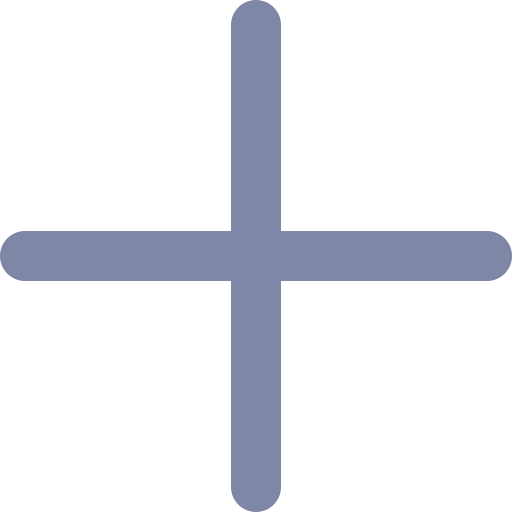
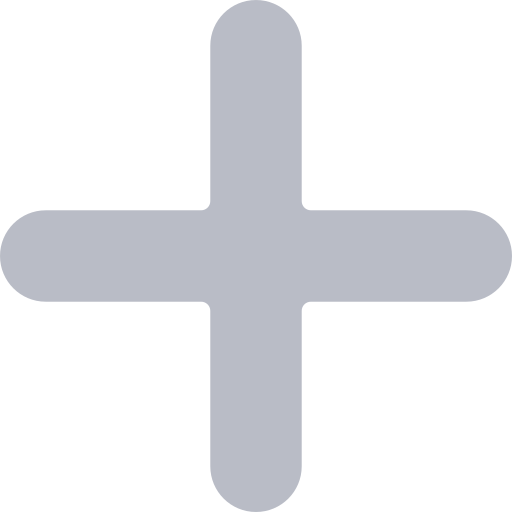
improve container layout

diff --git a/assets/styles/sass/home.scss b/assets/styles/sass/home.scss
@@ -3,7 +3,12 @@ $background-color: #c4def7;
 $primary-color: #fff;
 $checkbox-border-color: #3cc367;
 $checkbox-background-color: #cef0d9;
-$task-input-color: #49557a;
+$task-input-color: #9aa8bc;
+
+@mixin grid-full-col-placement($grid-row...) {
+    grid-column: $grid-row;
+    grid-row: 1/3;
+}
 
 @font-face {
     font-family: "vazir";
@@ -35,19 +40,21 @@ body {
     margin: 0 auto;
     display: grid;
     grid-template-columns: calc(25% - 16px) calc(50% - 16px) calc(25% - 16px);
+    grid-template-rows: 15% 1fr;
     justify-content: center;
     gap: 16px;
 
     > * {
         direction: rtl;
+        border-radius: 24px;
         background-color: $primary-color;
     }
 }
 
 .todo-list {
+    @include grid-full-col-placement(3/4);
     display: grid;
     grid-template-rows: auto 1fr auto;
-    border-radius: 24px;
 
     h2 {
         padding: 0.5rem;
@@ -65,7 +72,9 @@ body {
     }
 
     .task {
-        padding: 1rem 0.5rem;
+        height: max-content;
+        // padding: 1rem 0.5rem;
+        padding: 4px;
         display: grid;
         grid-template-columns: auto 1fr auto;
         align-items: center;
@@ -97,9 +106,11 @@ body {
             background-color: $checkbox-background-color;
         }
 
+        .task-title {
+            overflow: hidden;
+        }
+
         .buttons-wrapper {
-            width: 100px;
-            height: 100%;
             display: flex;
             flex-direction: row-reverse;
             gap: 5px;
@@ -108,16 +119,16 @@ body {
                 width: 25px;
                 aspect-ratio: 1;
                 display: block;
+                cursor: pointer;
                 background: no-repeat center center / 90%;
-
             }
-            
+
             .delete-task {
-                background-image: url("./../../images/delete-icon.png") ;
+                background-image: url("./../../images/delete-icon.png");
             }
 
             .edit-task {
-                background-image: url("./../../images/edit-icon.png") ;
+                background-image: url("./../../images/edit-icon.png");
             }
         }
     }
@@ -135,7 +146,8 @@ body {
             top: 50%;
             left: 1rem;
             transform: translate(50%, -50%);
-            background: url("./../../images/plus-icon.png") no-repeat center center / cover;
+            background: url("./../../images/plus-icon.png") no-repeat center
+                center / cover;
         }
     }
 
@@ -158,27 +170,34 @@ body {
     }
 }
 
-.search {
-    .quick-access {
-        display: grid;
-        grid-template-columns: repeat(auto-fill, calc((100% / 6) - 10px));
-        gap: 10px;
-        align-content: start;
-        place-content: center;
-        background-color: aqua;
+// .search {
+// }
 
-        a {
-            width: 100%;
-            aspect-ratio: 1;
-            border-radius: 1rem;
-            display: grid;
-            place-content: center;
-            border: 1px solid black;
-            color: white;
-            background-color: crimson;
+.quick-access {
+    height: max-content;
+    display: grid;
+    grid-template-columns: repeat(auto-fill, calc((100% / 6) - 10px));
+    gap: 10px;
+    justify-content: center;
+    align-content: start;
+    background-color: transparent;
+
+    a {
+        width: 100%;
+        aspect-ratio: 1;
+        border-radius: 1rem;
+        background: $primary-color no-repeat center center / 30%;
+
+        &:not(:first-child) {
+            background-image: url("./../../images/plus-icon.png");
         }
     }
 }
+
+.time-and-weather {
+    @include grid-full-col-placement(1/2);
+}
+
 a.reference {
     padding: 10px 20px;
     position: absolute;

diff --git a/index.html b/index.html
@@ -9,13 +9,20 @@
     <body>
         <main class="container">
             <div class="time-and-weather"></div>
-            <div class="search">
-                <div class="quick-access">
-                    <a href="">1</a><a href="">2</a><a href="">3</a
-                    ><a href="">4</a><a href="">5</a><a href="">6</a
-                    ><a href="">7</a><a href="">8</a><a href="">9</a
-                    ><a href="">10</a><a href="">11</a><a href="">12</a>
-                </div>
+            <div class="search"></div>
+            <div class="quick-access">
+                <a href=""></a>
+                <a href=""></a>
+                <a href=""></a>
+                <a href=""></a>
+                <a href=""></a>
+                <a href=""></a>
+                <a href=""></a>
+                <a href=""></a>
+                <a href=""></a>
+                <a href=""></a>
+                <a href=""></a>
+                <a href=""></a>
             </div>
             <div class="todo-list">
                 <h2>دست نویس</h2>
@@ -23,16 +30,16 @@
                     <div class="task">
                         <input type="checkbox" name="" id="complete-check1" />
                         <label for="complete-check1"></label>
-                        <span>کار شماره اول</span>
+                        <span class="task-title">کار شماره اول</span>
                         <div class="buttons-wrapper">
                             <span class="delete-task"></span>
                             <span class="edit-task"></span>
                         </div>
                     </div>
-                    <div class="task">
+                    <!-- <div class="task">
                         <input type="checkbox" name="" id="complete-check2" />
                         <label for="complete-check2"></label>
-                        <span>کار شماره دوم</span>
+                        <span class="task-title">کار شماره دوم</span>
                         <div class="buttons-wrapper">
                             <span class="delete-task"></span>
                             <span class="edit-task"></span>
@@ -41,12 +48,12 @@
                     <div class="task">
                         <input type="checkbox" name="" id="complete-check3" />
                         <label for="complete-check3"></label>
-                        <span>کار شماره سوم</span>
+                        <span class="task-title">کار شماره سوم هستش این که اینکار باید انجام بشه فهمیدی</span>
                         <div class="buttons-wrapper">
                             <span class="delete-task"></span>
                             <span class="edit-task"></span>
                         </div>
-                    </div>
+                    </div> -->
                 </div>
                 <form action="">
                     <input
